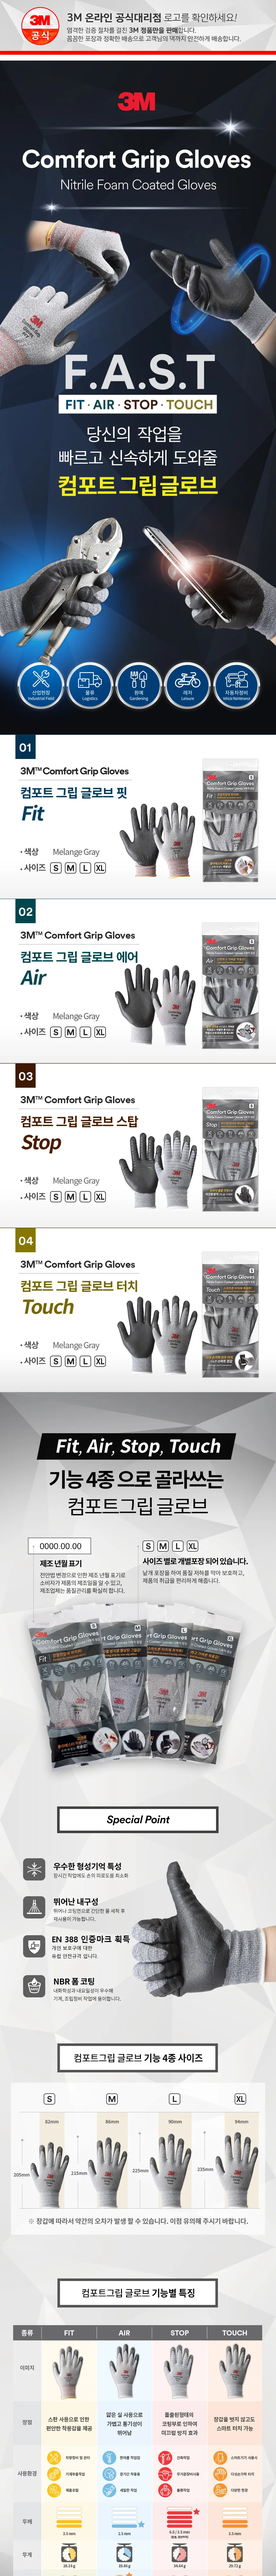
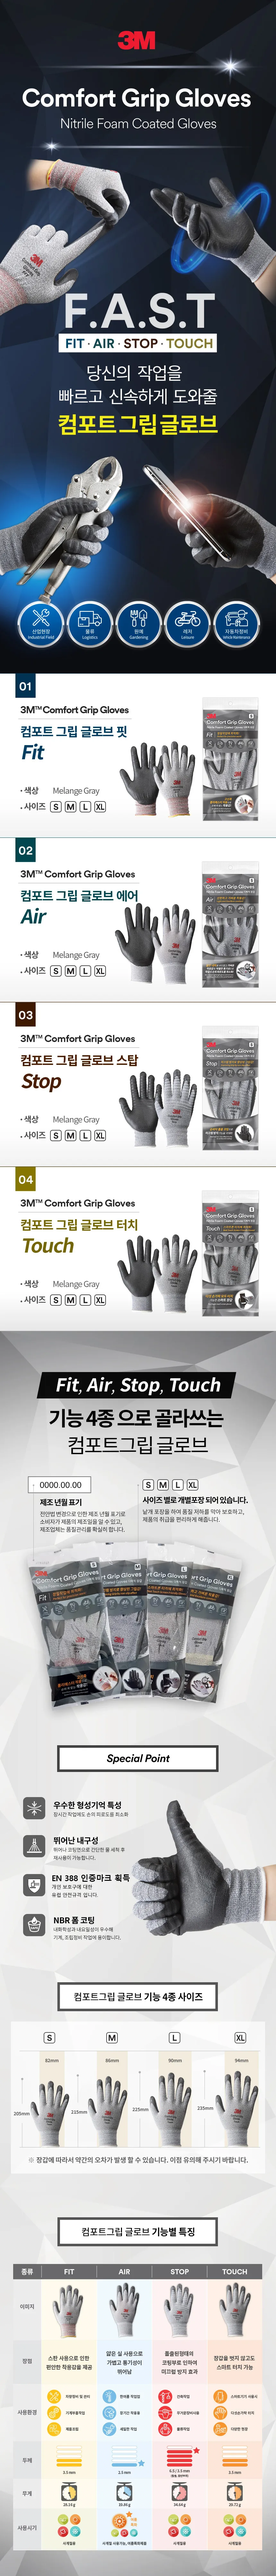
장갑 셀렉션 가이드 배포

diff --git a/index.html b/index.html
@@ -25,7 +25,7 @@ body{
   height:fit-content; margin-top:clamp(16px, 10vh, 120px);
 }
 .header{display:flex; justify-content:space-between; align-items:center; border-bottom:1px solid var(--line); padding-bottom:12px; margin-bottom:22px; min-height:40px; position:relative}
-.logo{font-size:28px; font-weight:900; color:var(--red); letter-spacing:-1px; margin:0; position:absolute; left:50%; transform:translateX(-50%)}
+.logo-img{height:30px; width:auto; display:block; position:absolute; left:50%; transform:translateX(-50%); top:50%; translate:0 -50%}
 .nav-btn{background:none; border:none; font-size:14px; font-weight:600; color:var(--sub); cursor:pointer; padding:8px 10px; border-radius:8px; z-index:2}
 .nav-btn:hover{background:#f1f3f5; color:var(--text)}
 .nav-btn.hidden{visibility:hidden}
@@ -107,7 +107,7 @@ body{
 <div class="container">
   <div class="header">
     <button class="nav-btn hidden" id="backBtn" onclick="goBack()">&#8592; 이전</button>
-    <h1 class="logo">3M</h1>
[1 lines of base64/hex data omitted]
     <button class="nav-btn hidden" id="homeBtn" onclick="goHome()">처음으로</button>
   </div>
   <div id="app"></div>
@@ -272,7 +272,7 @@ const T = {
     {label:'물류 / 유통', tag:'택배, 운송, 창고, MRO 등', next:'logi'},
     {label:'건설 / 토목', tag:'건축 현장, 전기, 설비 등', next:'const'},
     {label:'일반 산업 / 일상', tag:'제조, 농업, DIY, 캠핑 등', next:'general'},
-    {label:'중공업 / 안전', tag:'금속 가공, 방검 작업, 안전 관리 등', next:'heavy'}
+    {label:'중공업 / 안전', tag:'금속 가공, 베임 방지, 안전 관리 등', next:'heavy'}
   ]},
   logi:{step:'STEP 2', q:'[물류/유통] 작업 중 가장 많이 겪는 상황이나\n필요한 기능은 무엇인가요?', opts:[
     {label:'야외 하역이나 냉동창고 작업 등 고온/저온 환경', next:'r1'},
@@ -370,7 +370,7 @@ function renderStart(){
   updateNav(null);
   app.innerHTML = `
   <div class="start-wrap">
-    <h2 class="start-title">나에게 <span class="hl">딱 맞는 장갑</span> 찾기</h2>
+    <h2 class="start-title">나에게 <span class="hl">딱 맞는</span><br>일반 작업용 장갑 찾기</h2>
     <p class="start-desc">현재 종사하시는 산업과 작업 환경을 선택하시면,<br>가장 안전하고 편안한 최적의 3M 장갑을 추천해 드립니다.</p>
     <button class="big-btn" onclick="startTest()">추천 테스트 시작하기</button>
   </div>`;
